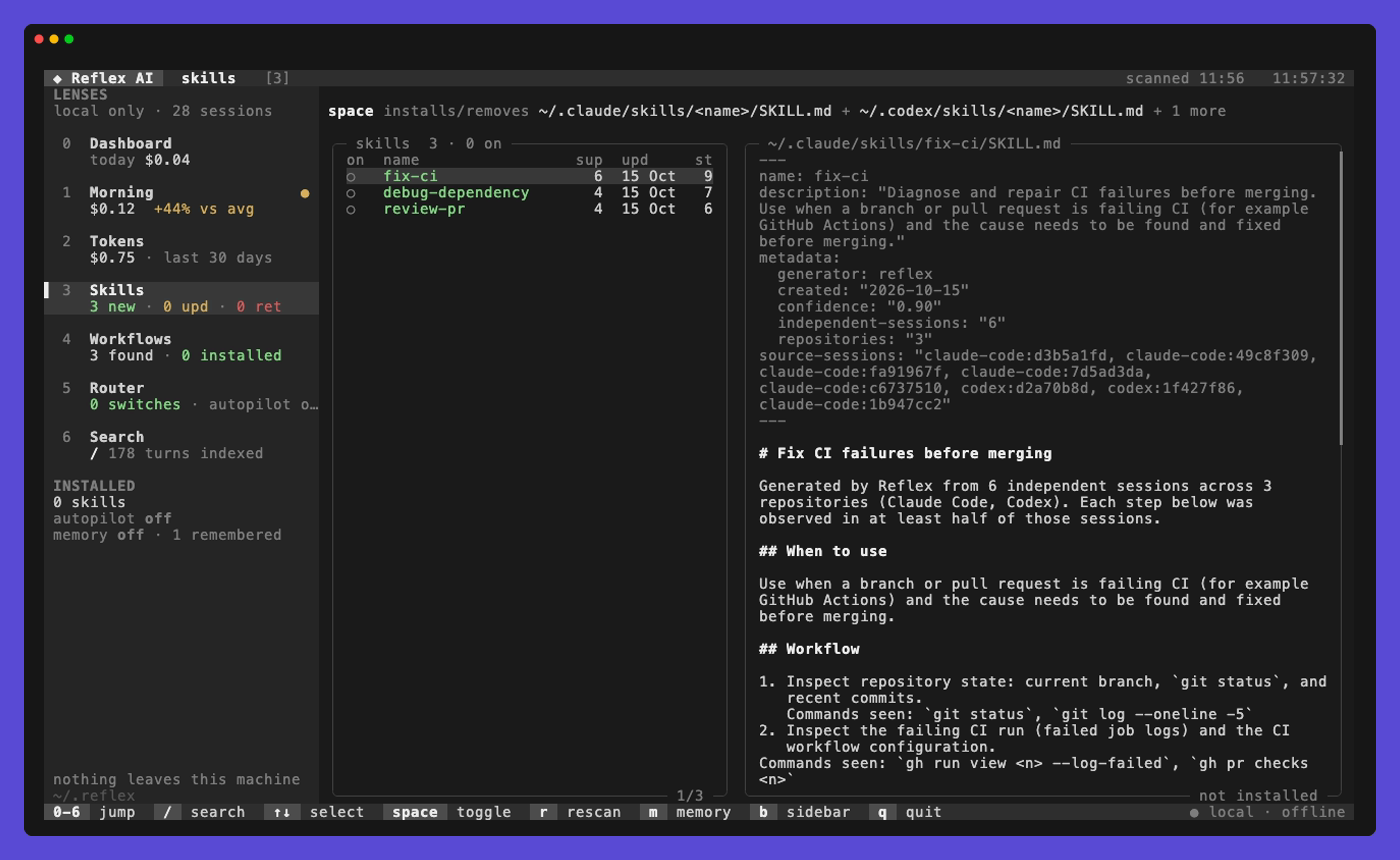
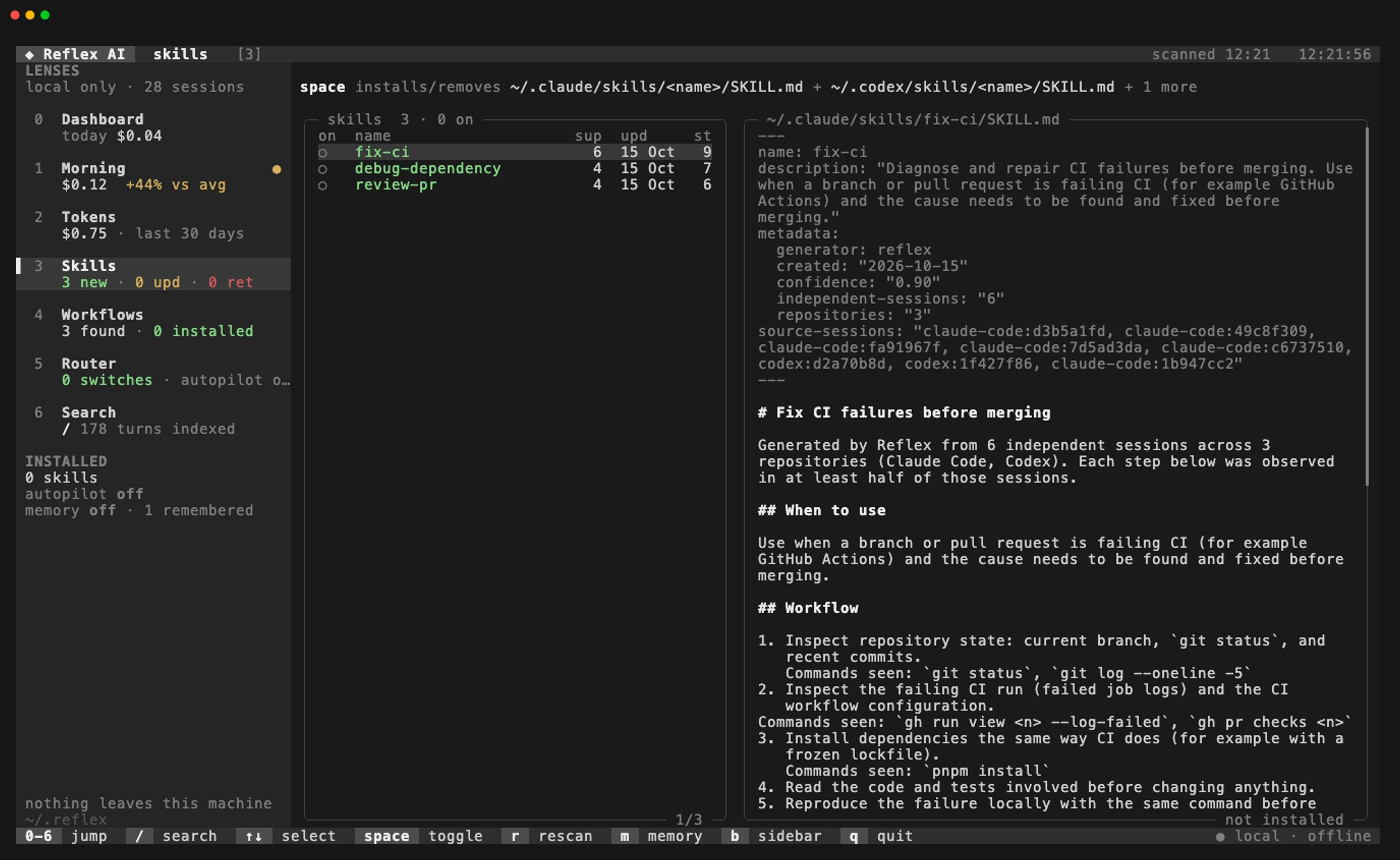
docs: drop the recording background and add a how-it-works diagram
Recordings no longer have a colored margin. The diagram is a hand-written
SVG in a light and a dark version; the README picks one by GitHub theme.

Changed region(s): [[0.0, 0.0, 1.0, 1.0]]

diff --git a/docs/readme-backlog.md b/docs/readme-backlog.md
@@ -6,7 +6,7 @@ README revamp on 2026-10-15. Nothing here is decided; tick or delete items as th
 ## Before merging
 
 - [ ] **Revert the temporary preview commit** (`TEMP: point README images at this branch`) so README
-  images point at `main` again: `git revert <that commit>`, or replace `reflex-tui/docs/readme-revamp/docs/assets`
+  images point at `main` again. Don't `git revert` it (images added later also use the branch URL); replace `reflex-tui/docs/readme-revamp/docs/assets`
   with `reflex-tui/main/docs/assets` in `README.md`.
 
 ## Decisions for the team
@@ -84,5 +84,7 @@ crush and delta.
   (`brew install vhs`) on the synthetic fixtures in a temp HOME, never real sessions:
   `vhs docs/assets/tui-tour.tape` and `vhs docs/assets/quickstart.tape` from the repo root after
   `pnpm build`. Re-record after visible TUI changes.
-- Possible later: a light-theme version, or a different background color than `#5b4bd6`.
+- No background around the recordings (the owner didn't like the purple margin). Possible later: a light-theme version.
+- `how-it-works-light.svg` / `-dark.svg` are hand-written SVGs; the README picks one with `<picture>` by
+  GitHub theme (npm shows the light one). Edit both when the flow changes.
 - The README images point at `main`, so they only show on GitHub after this branch is merged.

diff --git a/README.md b/README.md
@@ -84,6 +84,11 @@ whole loop on your own history.
 
 ## How it works
 
+<picture>
+  <source media="(prefers-color-scheme: dark)" srcset="https://raw.githubusercontent.com/sumervaid/reflex-tui/docs/readme-revamp/docs/assets/how-it-works-dark.svg">
+  <img src="https://raw.githubusercontent.com/sumervaid/reflex-tui/docs/readme-revamp/docs/assets/how-it-works-light.svg" alt="Agent history from Claude Code, Codex and Cursor is scanned into redacted traces in ~/.reflex; tasks repeated in at least 3 sessions are detected, reviewed and approved by you, and installed into each agent's skills folder. The terminal UI, router and memory use the same local data." width="900">
+</picture>
+
 1. **Scan.** Reflex asks per source, then reads your agents' history locally. Secrets, emails, home
    paths and your user name are redacted before anything is stored.
 2. **Detect.** Each session becomes a trace of what was asked and what was done. Traces that match
